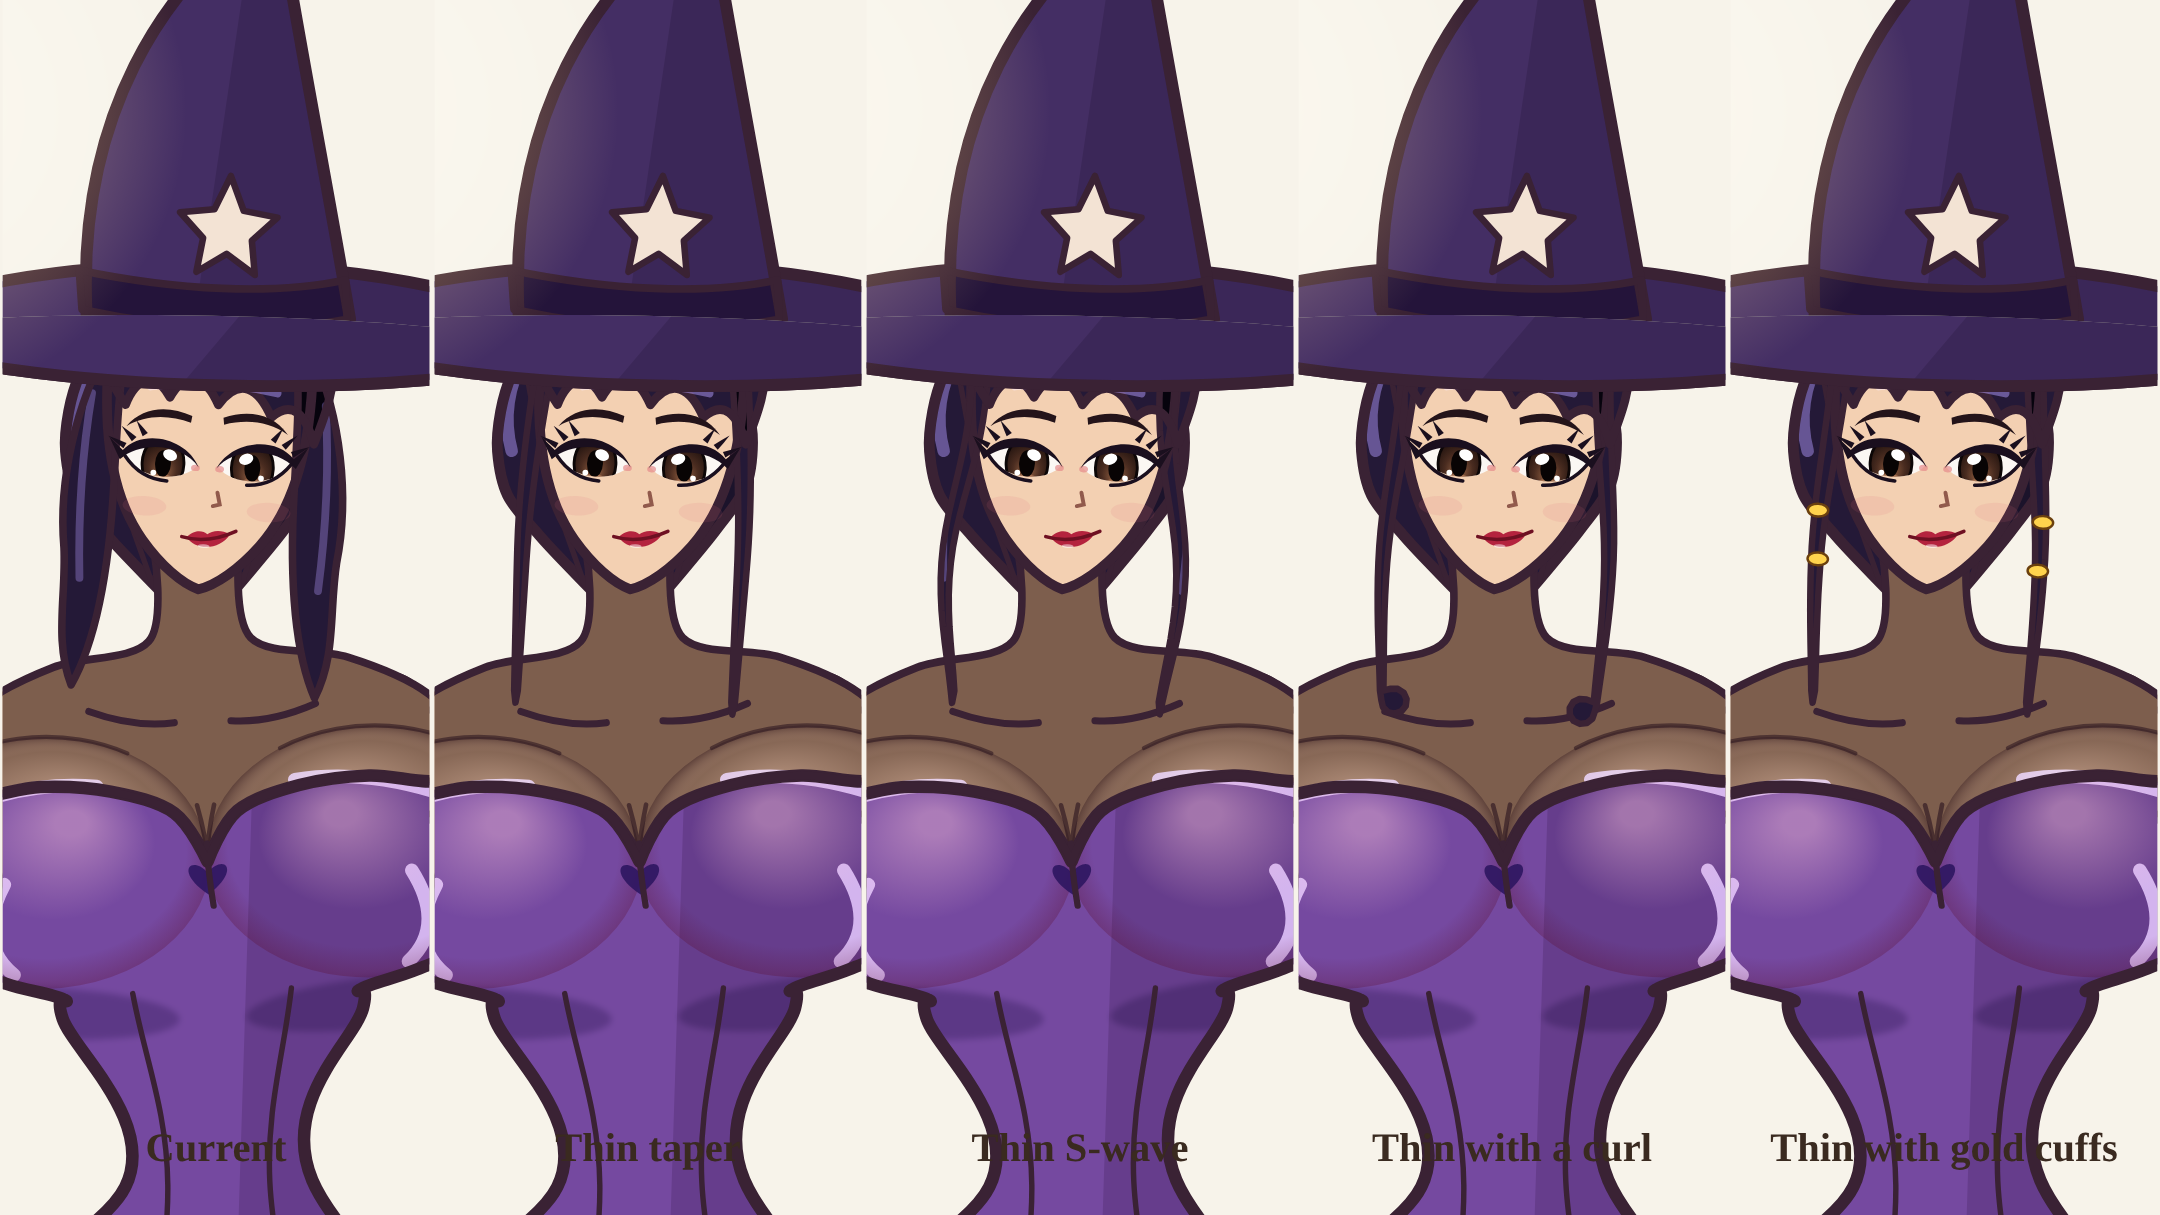
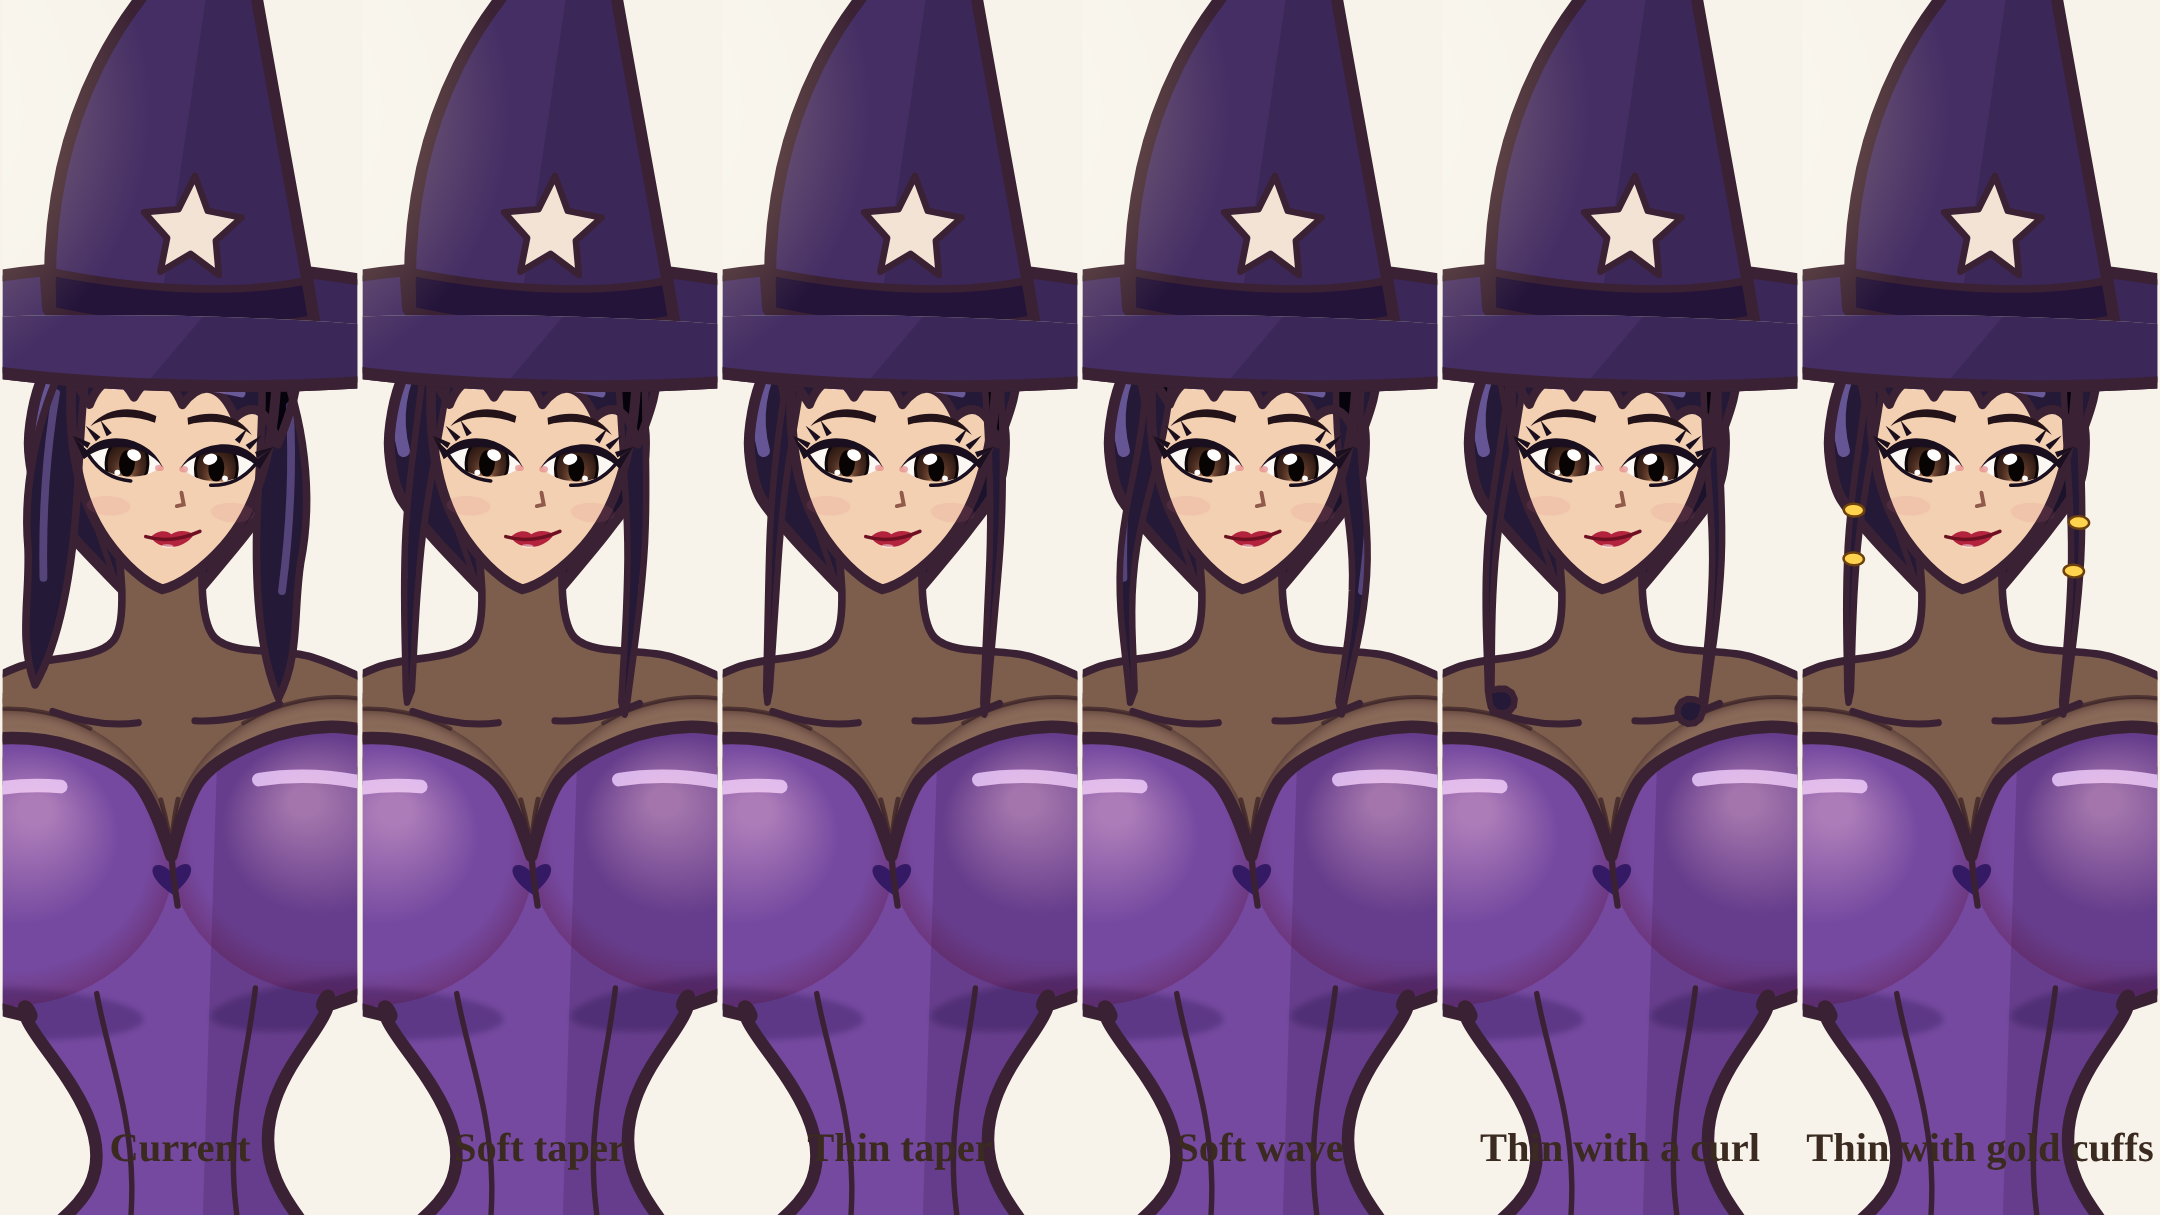
Intro: bust fills the chest, soft-taper locks; new staff pose with level hips 15% wider and matching bust
Claude-Session: https://claude.ai/code/session_01XzFNxAWLNsBGA1aG5XiqgF

diff --git a/docs/cinematic/wip/style_tests.html b/docs/cinematic/wip/style_tests.html
@@ -471,8 +471,9 @@ canvas { display: block; width: 100%; height: 100%; }
   MHAIRS.push({ name: 'Pulled back · tight', pony: 1, back: [[0.0, -414.5], [5.4, -413.6], [10.5, -410.9], [14.8, -406.7], [18.2, -401.2], [20.3, -394.9], [21.0, -388.0], [19.6, -380.2], [14.4, -373.0], [9.3, -366.8], [5.2, -362.0], [2.2, -359.0], [0.0, -358.0], [-2.2, -359.0], [-5.2, -362.0], [-9.3, -366.8], [-14.4, -373.0], [-19.6, -380.2], [-21.0, -388.0], [-20.3, -394.9], [-18.2, -401.2], [-14.8, -406.7], [-10.5, -410.9], [-5.4, -413.6]], strands: [[[-14, -404], [-12, -386], [-6, -366]], [[14, -404], [12, -386], [6, -366]]], shine: [[-15, -406], [-17, -390]] });
   var MLOCKS = [
     { name: 'Current', w: 0 },
+    { name: 'Soft taper', w: 5.6, wave: .3 },
     { name: 'Thin taper', w: 3.4, wave: 0 },
-    { name: 'Thin S-wave', w: 3.4, wave: 1.6 },
+    { name: 'Soft wave', w: 5.4, wave: 1.3 },
     { name: 'Thin with a curl', w: 3.2, wave: .6, curl: 1 },
     { name: 'Thin with gold cuffs', w: 3.4, wave: .4, cuff: 1 }
   ];
@@ -508,7 +509,7 @@ canvas { display: block; width: 100%; height: 100%; }
     { name: 'C+++ · bust even with hips', B: 58, W: 16.5, Hh: 60.7, Hb: 50, lift: 0, tilt: 5.5, ub: 10 },
     { name: 'C★ · C++ posed: higher, sheen', B: 52.2, W: 16.5, Hh: 60.7, Hb: 50, lift: 0, tilt: 9, ub: 8, hi: 6, sheen: 1, pose: 1 },
     { name: 'Final · C★ pose with C+++ proportions', B: 58, W: 16.5, Hh: 60.7, Hb: 50, lift: 0, tilt: 9, ub: 10, hi: 6, sheen: 1, pose: 1 },
-    { name: 'Final · new staff pose', B: 58, W: 16.5, Hh: 60.7, Hb: 50, lift: 0, tilt: 9, ub: 10, hi: 6, sheen: 1, pose: 1, pose2: 1 }
+    { name: 'Final · new staff pose', B: 69.8, W: 16.5, Hh: 69.8, Hb: 54, lift: 0, tilt: 0, ub: 10, hi: 6, sheen: 1, pose: 1, pose2: 1 }
   ];
   var MVAR = 9, MB = null, MBK = -1;
   // smooth closed/open SVG path through points; a third value of 1 marks a corner
@@ -536,8 +537,8 @@ canvas { display: block; width: 100%; height: 100%; }
     var bs = B / 36.5, cupR = [[B * .14, -323 - 4 * (bs - 1) - HI * .4], [B * .38, -329 - 10 * (bs - 1) - HI * .4], [Math.min(31.5, B * .66), -330 - 8 * (bs - 1) - HI * .4]]; // right cup, centre outward
     var cupLn = cupR.slice().reverse().map(function (p) { return [-p[0], p[1]]; });
     var big = B > 44, ay = -313 + (v.ub || 0) * .5 - HI; // big busts: each side follows an ellipse, so it reads round and sits on the ribcage
-    var EX = B * .5, ERy = 22, EC = -314 - HI * .3, ep = function (t) { return [EX + EX * Math.cos(t * Math.PI), EC + ERy * Math.sin(t * Math.PI)]; };
-    var epN = function (t) { var q = ep(t); return [q[0], EC + (q[1] - EC) * .6]; }; // the dress neckline sits lower than the top of the bust
+    var EX = B * .5, ERy = big ? 26 : 22, EC = -315 - HI * .3, ep = function (t) { return [EX + EX * Math.cos(t * Math.PI), EC + ERy * Math.sin(t * Math.PI)]; };
+    var epN = function (t) { var q = ep(t); return [q[0], EC + (q[1] - EC) * .8]; }; // the dress neckline sits lower than the top of the bust
     if (big) { cupR = [epN(-.8), epN(-.64), epN(-.5), epN(-.36), ep(-.3)]; cupLn = cupR.slice().reverse().map(function (p) { return [-p[0], p[1]]; }); }
     var neck = big ? cupLn.concat([[0, EC + 1, 1]], cupR) : [[-34, -336, 1]].concat(cupLn, [[0, -318, 1]], cupR, [[34, -336, 1]]);
     var bustR = big ? [ep(-.22), ep(-.06), ep(.1), ep(.26), ep(.42), [EX * .9, EC + ERy + 2.5]] : [[B, ay]];
@@ -744,7 +745,7 @@ canvas { display: block; width: 100%; height: 100%; }
     ctx.restore();
   }
   function mirabelDrawn(x, y, sc, F, T) {
-    ctx.save(); ctx.translate(x, y); ctx.scale(sc, sc); var lw = 1 / sc * .9, M = MIRA, Bd = body(), dk = STYLE === 'sketch' ? 2.4 : 1.5; if (MVARS[MVAR].pose) ctx.rotate(-.035);
+    ctx.save(); ctx.translate(x, y); ctx.scale(sc, sc); var lw = 1 / sc * .9, M = MIRA, Bd = body(), dk = STYLE === 'sketch' ? 2.4 : 1.5; if (MVARS[MVAR].pose && !MVARS[MVAR].pose2) ctx.rotate(-.035);
     var base = function (list) { if (F > .45) { ctx.save(); ctx.globalAlpha *= clamp((F - .45) / .2); ctx.fillStyle = '#fbf5e8'; list.forEach(function (p) { ctx.fill(p.path); }); ctx.restore(); } };
     var cF = function (a, b) { return (F - a) / b; };
     // 1. back hair (follows the head up), the staff
@@ -779,8 +780,8 @@ canvas { display: block; width: 100%; height: 100%; }
       var bq = v.B / 36.5, yq = -8 * (bq - 1) + (v.ub || 0) * .5 - (v.hi || 0); ctx.beginPath(); ctx.moveTo(-(v.B - 6), -316 + yq); ctx.quadraticCurveTo(-(v.B * .6), -325 + yq, -12 * bq, -323 + yq); ctx.moveTo(10 * bq, -323 + yq); ctx.quadraticCurveTo(v.B * .55, -325 + yq, v.B - 8, -316 + yq);
       ctx.moveTo(-(v.Hh - 8), -232 + v.lift); ctx.quadraticCurveTo(-(v.Hh - 2), -210 + v.lift, -(v.Hh - 6), -180); ctx.moveTo(-22, -150); ctx.quadraticCurveTo(-24, -100, -28, -40); if (v.sheen) { ctx.moveTo(v.Hh - 10, -236 + v.lift); ctx.quadraticCurveTo(v.Hh - 3, -214, v.Hh - 8, -186); ctx.moveTo(-(v.B * .62), -306 - (v.hi || 0)); ctx.quadraticCurveTo(-(v.B * .72), -296 - (v.hi || 0), -(v.B * .6), -290 - (v.hi || 0)); ctx.moveTo(v.B * .62, -306 - (v.hi || 0)); ctx.quadraticCurveTo(v.B * .72, -296 - (v.hi || 0), v.B * .6, -290 - (v.hi || 0)); } ctx.moveTo(14, -112); ctx.quadraticCurveTo(17, -100, 16, -88); ctx.stroke();
       ctx.restore(); }
-    if (F > .7 && v.B > 44) { var rk = clamp(cF(.7, .2)), cy2 = -314 - (v.hi || 0) * .3; ctx.save(); ctx.clip(Bd.gown.path); // round volume on each side: a soft glow in the middle, darker toward the edge
-      [-1, 1].forEach(function (sd) { var cx2 = sd * v.B * .5, rr = v.B * .5; ctx.save(); ctx.translate(cx2, cy2); ctx.scale(1, 22 / rr); ctx.translate(-cx2, -cy2); var g = ctx.createRadialGradient(cx2 - sd * rr * .18, cy2 - rr * .3, rr * .1, cx2, cy2, rr * 1.02);
+    if (F > .7 && v.B > 44) { var rk = clamp(cF(.7, .2)), cy2 = -315 - (v.hi || 0) * .3; ctx.save(); ctx.clip(Bd.gown.path); // round volume on each side: a soft glow in the middle, darker toward the edge
+      [-1, 1].forEach(function (sd) { var cx2 = sd * v.B * .5, rr = v.B * .5; ctx.save(); ctx.translate(cx2, cy2); ctx.scale(1, (v.B > 44 ? 26 : 22) / rr); ctx.translate(-cx2, -cy2); var g = ctx.createRadialGradient(cx2 - sd * rr * .18, cy2 - rr * .3, rr * .1, cx2, cy2, rr * 1.02);
         g.addColorStop(0, 'rgba(255,200,220,' + (.4 * rk) + ')'); g.addColorStop(.55, 'rgba(255,200,220,0)'); g.addColorStop(.8, 'rgba(90,10,40,0)'); g.addColorStop(1, 'rgba(90,10,40,' + (.28 * rk) + ')');
         ctx.fillStyle = g; ctx.beginPath(); ctx.arc(cx2, cy2, rr * 1.02, 0, 7); ctx.fill(); ctx.restore(); }); ctx.restore(); }
     if (F > .72) { var hk = clamp(cF(.72, .15)); heartAt(0, -314.5, 5.5, MCOL.gownDk, .9 * hk); heartAt(0, -250 + v.lift, 11, MCOL.gownDk, .8 * hk); }

diff --git a/docs/cinematic/wip/README.md b/docs/cinematic/wip/README.md
@@ -76,3 +76,4 @@ style test page (`mirabel_final.png`); the Body button still cycles the earlier 
   one filled brow per side, rounder jaw; bust drawn as two round forms on the ribcage with the upper bust
   showing through the sheer top above a lower neckline; hair pulled back (sleek) with thin tapered front locks
   (options in `../refs/mirabel_front_locks.png`); test model "Final · new staff pose" (same body).
+- Bust fills the chest (taller, set higher, same width); fuller **Soft taper** front locks are the default. New staff pose: level hips (no tilt or lean), hips 15% wider, bust matched to the hips.
